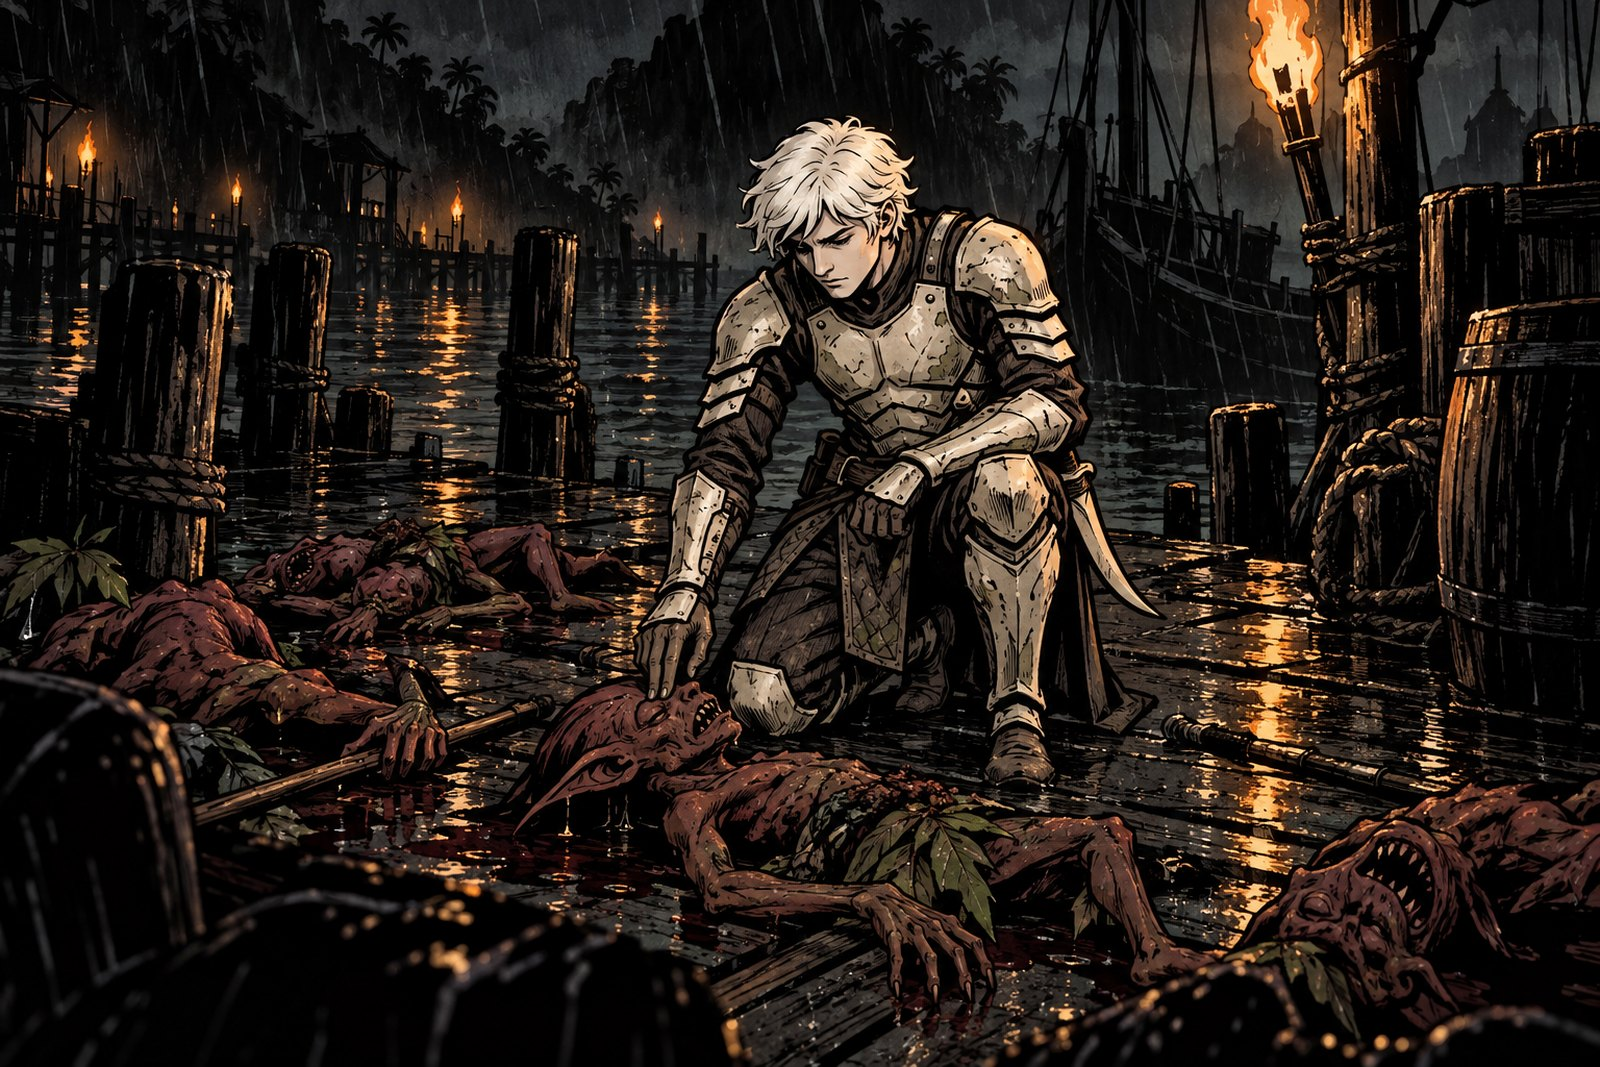
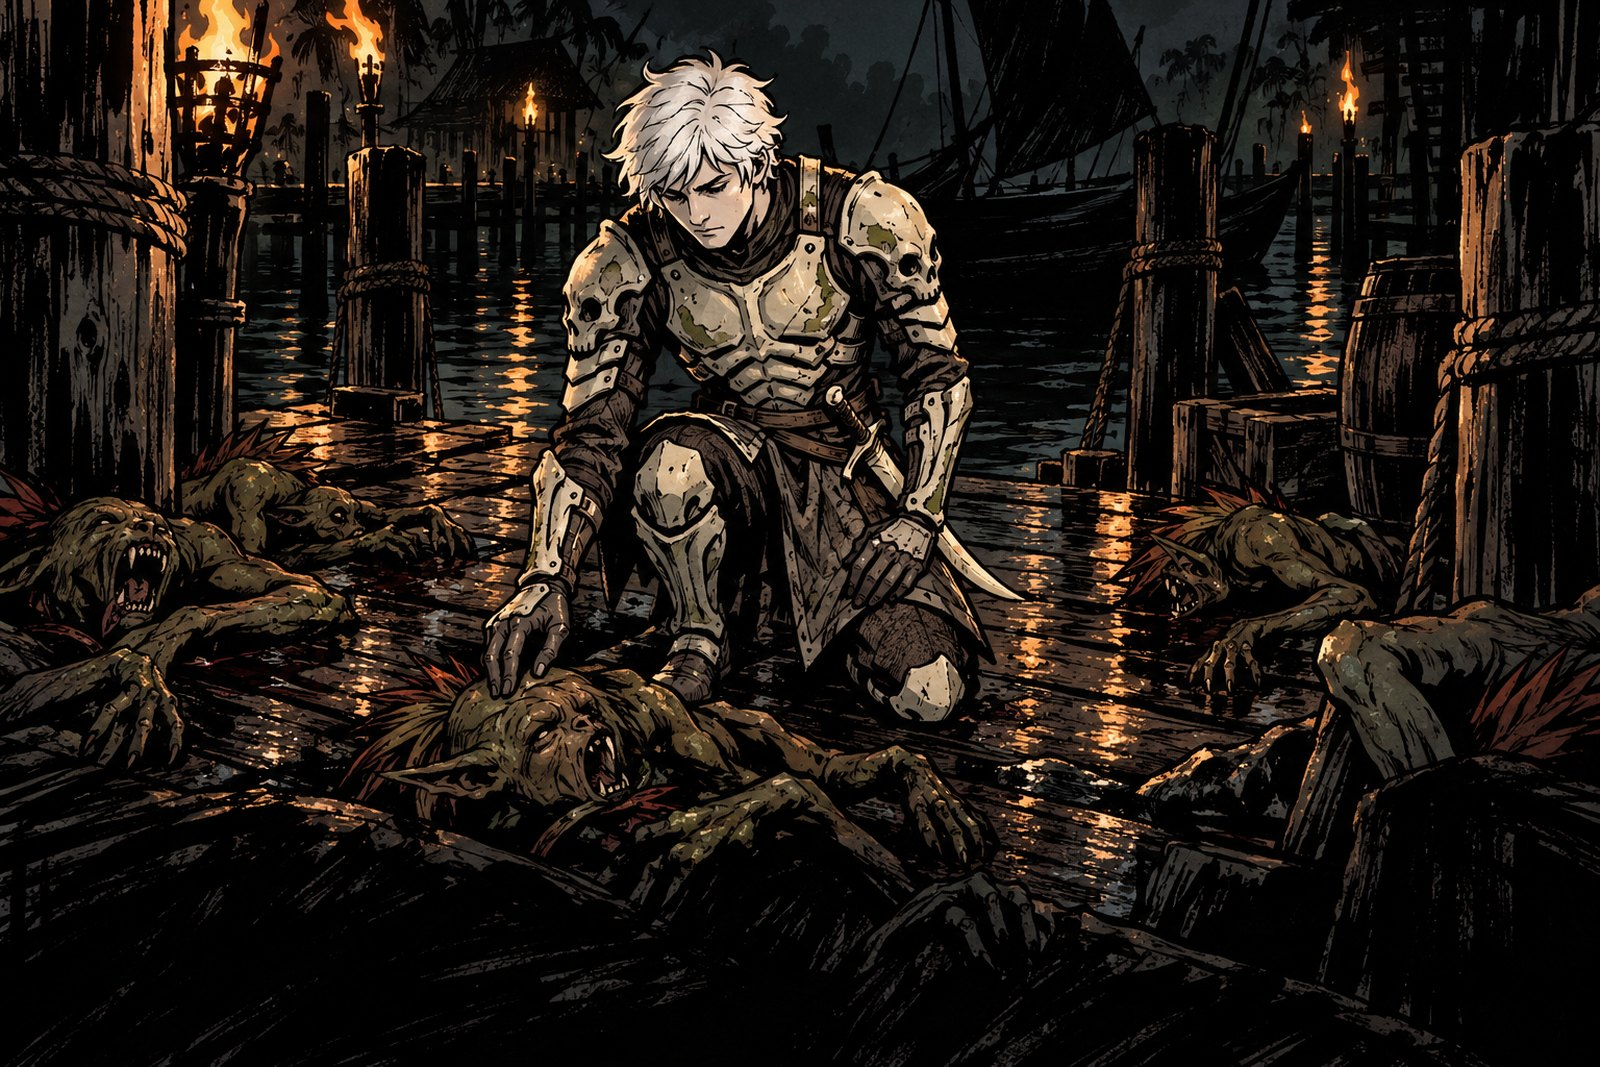
WIP story I4: frame-up, chain, seniority; bone/crown/Flayer repaints
Words: acolyte-carrier named, daughters catch + Akara witnesses, lantern
lifted, Council oil + keeper-framed, master/hound, own door, jungle
silence, died-of-stopping, inciting cause, Abominations among dead,
temple floor, black sails, six-night crossing, set of bones, let-me-look,
Tristram-kept-by-him taunt. Repaints: docks-after bone, caves-after
crowned waiter, docks-before wingless Flayers. Canon: KEEP-1 death,
MOTH-1 chain, TAUNT-1 bluff, CURSE-1 figurative beam, misquote guard.

diff --git a/hellward/story.py b/hellward/story.py
@@ -71,7 +71,8 @@ STORIES: dict[str, Story] = {s.key: s for s in (
         "tristram-before",
         "A village burning at night; small red-skinned Fallen demons pour out of cellar doors with knives and torches. "
         "In the foreground, seen from behind at the village well, the keeper holds up the lantern.",
-        "The lamp guttered at midnight, and now Tristram burns. The Fallen come up through the cellars with knives and "
+        "The lamp guttered at midnight, and now Tristram burns. Its keeper had stopped keeping it. The Fallen come up "
+        "through the cellars with knives and "
         "torches, red southern knives among them, and behind them walk the village dead, still in their Sunday clothes.",
         "Akara finds you at the well. From her candle she lights your lantern — one flame of the lamp's own. "
         "\"The old towers answer whoever keeps the lamp,\" she says. \"Wake what sleeps, and raise where nothing sleeps. "
@@ -132,8 +133,8 @@ STORIES: dict[str, Story] = {s.key: s for s in (
         "catacombs-after",
         "A bare stone cell with a cot and a cold black lamp, long unlit; on the floor, violet-glowing bones laid end to "
         "end as a long winding path, and its last stretch bare stone. No other light.",
-        "In the deepest ossuary you found his cell: a cot, a cold lamp, and his bones, laid out on the floor as a "
-        "winding path through every room you have fought in.",
+        "In the deepest ossuary you found his cell: a cot, a cold lamp, and a set of bones, laid out on the floor "
+        "as a winding path through every room you have fought in.",
         "Its last stretch was bare. It led to the door.")),
     Story("caves/before", 1, _page(
         "caves-before",
@@ -147,12 +148,13 @@ STORIES: dict[str, Story] = {s.key: s for s in (
     Story("caves/after", 1, _page(
         "caves-after",
         "Steps cut into black rock at the edge of a lava flow, each step worn into a deep hollow by feet; red light "
-        "from below.",
+        "from below; a hooded skeletal figure waits on the steps, a dull crown gleaming on his brow.",
         "At the lava's edge the rock had been cut into steps, and the steps were worn into hollows by one pair of "
         "feet.",
         "Every night for nine hundred years the keeper came down here and cast his bones before the door, and every "
-        "night they showed the lamp going out. Somewhere in those years he stopped keeping it, crowned himself, and "
-        "began to wait — as if he waited on these steps still.")),
+        "night they showed the lamp going out. Somewhere in those years he stopped keeping it, and died of it — but "
+        "the keeping would not let him go. He crowned himself, and began to wait — as if he waited on these steps "
+        "still.")),
     Story("hells_gate/before", 1, _page(
         "hells_gate-before",
         "A colossal door in the rock, firmly shut except for a single hand's-width crack; hellfire blazing through that "
@@ -160,8 +162,8 @@ STORIES: dict[str, Story] = {s.key: s for s in (
         "The door the saints built on stands open a hand's width. Through the gap you see fire, and the shape of "
         "Azazel the Flayer.",
         "The Bone Priest waits at the threshold, crowned, and turns to face you. \"Nine hundred years I kept your "
-        "saints' lamp,\" he says. \"I promised him this hour. Tonight I let it go out. I cannot lay it down — so I "
-        "will put it out.\"",
+        "saints' lamp,\" he says. \"I promised him this hour, as a master promises a hound. Tonight I let it go "
+        "out. I cannot lay it down — so I will put it out.\"",
         refs=("priest",))),
     Story("act1/end", 1, (
         Page("act1-end-1",
@@ -170,7 +172,7 @@ STORIES: dict[str, Story] = {s.key: s for s in (
              ("Azazel fell in the doorway, and the door swung shut on him — a hand's width from the night he wanted.",
               "The Bone Priest cast his bones on the threshold, again and again. They showed him every stone, every "
               "tower, every demon, as they always had. They had never once shown him you.",
-              "The nearer door shut against him; he stepped back into the dark and went east. Above you, the lamp of "
+              "His own door shut against him; he stepped back into the dark and went east. Above you, the lamp of "
              "Tristram burned."),
              ("priest",)),
         Page("act1-end-2",
@@ -183,10 +185,10 @@ STORIES: dict[str, Story] = {s.key: s for s in (
         Page("act1-end-3",
              "A night harbour; far out, a ship with black sails leaves under the moon. On the quay, seen from behind, "
              "the keeper holds up the lantern, and Akara stands beside him with her candle.",
-             ("A ship left the coast last night with one passenger and no crew, sailing east.",
+             ("A ship with black sails left the coast last night with one passenger and no crew, sailing east.",
               "\"Go,\" said Akara. \"I will keep this one. Take its flame, and the old towers will know you — Kurast is "
               "old temple ground, and the saints' works sleep there too.\" You held the lantern to the lamp until its "
-              "flame stood straight, and went down to the sea, where a boat waited."),
+              "flame stood straight, and went down to the sea, where a boat waited. The crossing took six nights."),
              ("you", "akara")),
     )),
     # -- Act II, The Drowned Temples ----------------------------------------------------------------
@@ -194,17 +196,19 @@ STORIES: dict[str, Story] = {s.key: s for s in (
         "docks-before",
         "On a harbour wall stands the necromancer, looking down at the viewer, his armour grown from the skeleton "
         "itself: a ribcage cuirass, spine-ridge pauldrons, skull motifs at shoulder and knee, matte yellowed bone, "
-        "nothing plate-like anywhere; on the far piers behind him, tiny distant red Flayers wait; a swamp city of gold "
+        "nothing plate-like anywhere; on the far piers behind him, tiny distant wingless red Flayers with knives "
+        "wait on foot; a swamp city of gold "
         "roofs and rotting wooden piers rises in tiers.",
         "Kurast rises out of the swamp in tiers of gold and rotting wood. The harbour is empty of pilgrims. Along the "
         "piers the Flayers are waiting, lordless since Azazel fell, and their shaman is already singing.",
         "A pale man in bone armour watches you land. \"I am a priest of Rathma,\" he says. \"Your enemy stole our "
         "art. Let me lend it back to you as the Bone Altar.\"",
-        "His acolytes walk with every host, carrying his words ahead of them.",
+        "The Bone Priest's acolytes walk with every host, carrying his words ahead of them.",
         refs=("necromancer",))),
     Story("docks/after", 2, _page(
         "docks-after",
-        "The necromancer kneels on a wet pier among small dead jungle fiends, closing their eyes with two fingers.",
+        "The necromancer kneels on a wet pier among small dead jungle fiends, closing their eyes with two fingers, "
+        "wearing ribcage bone armour with skull motifs, matte yellowed bone, nothing plate-like.",
         "The shaman's song stopped. The necromancer knelt among the Flayers and closed their eyes. \"Twice his shaman "
         "raised them on the priest's stolen art,\" he said. \"Each time, fewer of them came back.",
         "\"He is not raising the dead. He is spending them.\"",
@@ -242,7 +246,7 @@ STORIES: dict[str, Story] = {s.key: s for s in (
         "A gloved hand holds a folded letter; its wax seal, stamped with the cathedral's seal, is broken.",
         "Among the inquisitors' dead you found the seal of the High Council, and a letter in the Bone Priest's hand: "
         "Your lamp gutters, as mine did. Let me keep it for you.",
-        "The Council let him in.",
+        "The Council let him in, and gave him oil for the keeping.",
         "The lamp had been low for years. No one in Kurast had truly kept it.",
         refs=("seal",))),
     Story("drowned_city/before", 2, _page(
@@ -269,8 +273,8 @@ STORIES: dict[str, Story] = {s.key: s for s in (
         "ember line still burning inside. No candles, no other light.",
         "The High Council meets on the temple terrace under the mother lamp: a row of elders in gold, and every one of "
         "them curses. They let him in with open eyes.",
-        "They have waited for you. The Bone Priest has told them how this night ends. He promised Azazel an hour, "
-        "and Azazel is dust in a shut door. His promises are spent coin.",
+        "They have waited for you. The Bone Priest has told them you come to put the lamp out. He promised Azazel "
+        "an hour, and Azazel is dust in a shut door.",
         "The Council gave him the keeping of the lamp. But the old towers answer the flame, and his hands are empty.",
         refs=("mother_lamp",))),
     Story("travincal/after", 2, _page(
@@ -288,18 +292,17 @@ STORIES: dict[str, Story] = {s.key: s for s in (
         "A vast golden temple interior gone almost dark; the mother lamp hangs over the altar with its flame sunk to a "
         "last red ember, the great glass nearly black; beneath it the Bone Priest, grown huge, bones in his open hand, "
         "violet fire around him. No candles, no other light.",
-        "Under the mother lamp the Bone Priest waits, his new Abominations at the stair, and for the first time he "
+        "Under the mother lamp the Bone Priest waits, his new Abominations among the dead, and for the first time he "
         "will fight you himself.",
         "\"Every night since Tristram I have cast these bones,\" he says. \"They show me every stone of this "
-        "temple, every demon in it, every tower you will build. They have never shown me you. So I have come to "
-        "look.\"",
+        "temple, every demon in it, every tower you will build. They have never shown me you. So let me look.\"",
         refs=("priest", "mother_lamp"))),
     Story("act2/end", 2, (
         Page("act2-end-1",
-             "Violet bones scattered across a gold floor; above them a ghostly vision in gold light: a shadow with a "
+             "Violet bones scattered across a grey stone floor; above them a ghostly vision in gold light: a shadow "
              "lantern standing beside a burning lamp.",
-             ("The bones fell from his hand and scattered across the gold floor, and above them, for the first time, "
-              "the vision held you: a shadow with a lantern, and the lamp still burning.",
+             ("The bones fell from his hand and scattered across the temple floor. You lifted the lantern — and above "
+              "them, for the first time, the vision held you: a shadow with a lantern, its flame still burning.",
               "\"There you are,\" he said, and was dust — nine hundred years, all at once."),
              ("you",), base="bones"),
         Page("act2-end-2",
@@ -314,14 +317,14 @@ STORIES: dict[str, Story] = {s.key: s for s in (
              "the mother flame catches and rises gold, lighting the whole temple.",
              ("You held it up to the great lamp: Tristram's flame, lit from this one nine hundred years ago. The eldest "
               "druid poured oil from his wooden cask, pressed from the grove's oaks, and the mother flame caught, and "
-              "rose gold.",),
+              "rose gold — and far away, every daughter lamp caught with her.",),
              ("you", "druid", "mother_lamp")),
         Page("act2-end-4",
              "Dawn through tall cathedral windows; the red lamp of Tristram burns straight; Akara looks up at it from "
              "below with her candle.",
-             ("Across the sea, in a cathedral built on a door to hell, Akara's candle had burned through the dark on "
-              "keeping alone.",
-              "From it she lit the small red lamp again, and it stood straight.",
+             ("Across the sea, in a cathedral built on a door to hell, the small red flame caught with its mother, "
+              "and stood straight.",
+              "Beside it, Akara's candle burned on — it had burned through the dark on keeping alone.",
               "Keep it burning."),
              ("akara", "lamp")),
     )),

diff --git a/docs/story-canon.md b/docs/story-canon.md
@@ -25,15 +25,17 @@ keeper's keeping. A flame given into keeping burns on keeping from that hour —
 oil cannot starve it afterwards. That is why it survives the mother lamp's
 going out, when every oil flame lit from her dies. [LANT-2]
 
-**The chain.** When the mother lamp goes out, every daughter dies with her.
-Akara's candle burns through the dark on keeping alone, and from it she
-lights Tristram's lamp again once the mother burns. [MOTH-1]
+**The chain.** When the mother lamp goes out, every daughter dies with her;
+when she burns again, every daughter catches with her. Akara's candle burns
+through the dark on keeping alone, and beside it she watches Tristram's lamp
+catch. [MOTH-1]
 
 **The keeping.** The keeping passes from keeper to keeper, night by night;
 tonight it is yours. Akara can mind a lamp, but the old towers answer only the
-keeper. [KEEPER-2] And the keeping holds its keeper past death: that is how one
-priest kept Tristram's lamp nine hundred years, and why he walks still, a
-skeleton who cannot lay the office down. [KEEP-1]
+keeper. [KEEPER-2] The keeping holds its keeper past death: it held him long
+while he lived — nine hundred years alive — and when he stopped keeping, he
+died of it, but the keeping would not let him go. That is why he walks still,
+a skeleton who cannot lay the office down. [KEEP-1]
 
 **What each defence defends.** Every map ends at a sanctuary chapel, and the
 keeper sets the lantern down burning in it while working. The red orb is that
@@ -99,7 +101,11 @@ keeper no longer, but king of what comes through. [CROWN-1]
 
 **His voice.** His taunts run ahead of every host, carried by his acolytes on
 the eve of battle; the briefings stage them as his voice. That is how he
-taunts fights he does not attend. [TAUNT-1]
+taunts fights he does not attend. His taunts menace and sometimes bluff;
+pages and lessons teach the truth. [TAUNT-1] The prologue's beam is his will
+shown plainly, in the visions' figurative register; in battle the curses fall
+through his acolytes and leaders — he fights in person first, and only, at
+the temple. [CURSE-1]
 
 **The flame answers.** The towers answer the flame-bearer. The Council may
 give him the keeping of the lamp, but his hands are empty, and the old towers
@@ -255,9 +261,10 @@ text — verify on a full walk with panels open.)*
 
 ## Open questions
 
-Iteration 1 closed 1–7 (applied + committed 05cb5af; re-check verified the
-core lands). What follows is iteration 2, from the re-check reports (R1 = the
-rule the telling must still earn, with its canon tag).
+Iterations 1–2 applied and committed (05cb5af, bfa22ba); iteration 3 applied
+and committed (2bbd9da). Iteration 4 (below) answers the I3 critic's verified
+findings; its two misquotes ("spending an army", the jungle tooltip) matched
+already-fixed text and are marked [STALE] where they would have appeared.
 
 1. LANT-2 bridge: the lantern is lit as oil-flame but burns oil-less. Needs
    the transition stated (Akara: keeping feeds it from that hour). [R1/LANT-2]
@@ -296,10 +303,25 @@ rule the telling must still earn, with its canon tag).
 17. **Accepted, no telling change:** keeper's origin blank (deliberate,
     KEEPER-1); "my lamp" first-read (resolves at hells_gate); elders veil
     (ELDER-1); boat off-frame (moored hulls at act1-end-3's right edge);
-    Azazel's body behind the shut door; gargoyles "hang"→"roost" (trivial,
-    batched); necromancer's thin past (his payoff is the bones' rule);
-    prologue skeletons (both sides raise dead); Blood Bat's small model.
-18. **CLOSED by this canon:** orb fiction (ORB-1/LANT-1), wake-vs-build
+    Azazel's body behind the shut door; necromancer's thin past (his payoff
+    is the bones' rule); prologue skeletons (both sides raise dead); Blood
+    Bat's small model; travincal bargain as dramatic irony (the new taunt is
+    non-empty; the old hollowness is gone); oil timing as race structure (you
+    arrive as it runs out); Council zealotry needs no motive beyond faith;
+    uniform objectives (genre; per-fight objectives would be a game change);
+    lessons teach mechanics by design (drowned briefing); Abominations
+    off-panel at the stair (words may exceed the panel).
+18. **Iteration 4 (applied, uncommitted):** docks-after bone repaint;
+    caves-after crowned waiter; docks-before wingless Flayers; KEEP-1
+    (died of stopping, keeping holds him); MOTH-1 (daughters catch with
+    mother, Akara witnesses); TAUNT-1 bluff clause; CURSE-1 (prologue beam
+    figurative); taunt-carrier named; daughters catch + Akara witnesses;
+    lantern lifted (the light's choice); Council oil + frame-up; master/hound
+    seniority; own door; jungle taunt silence-fix; died-of-stopping;
+    inciting cause; Abominations among the dead; temple floor; black sails;
+    crossing nights; a set of bones; "let me look"; Tristram kept by him
+    (travincal taunt).
+19. **CLOSED by this canon:** orb fiction (ORB-1/LANT-1), wake-vs-build
     (TOWER-1/TOWER-2), priest's motive (PRIEST-1), why the bones never show
     the keeper (BONES-1), the lantern's survival (LANT-2), the chain
     (MOTH-1), his release (REL-1), his voice (TAUNT-1), the flame answers
@@ -349,5 +371,6 @@ rule the telling must still earn, with its canon tag).
    holes, extended impressions, new ledger entries).
 6. **Blind-check**: a subagent walks the touched arc with panels only (it must
    not open this canon, `docs/story.md`, or any source file) and reports what
-   it understood. Its report goes into the iteration notes; misses become new
-   Open questions.
+   it understood. Verify every quote in its report against the files before
+   acting — blind agents can misquote from false memory. Its report goes into
+   the iteration notes; verified misses become new Open questions.

diff --git a/docs/story.md b/docs/story.md
@@ -62,7 +62,7 @@ gauge. `stills` re-renders the stills into `hellward/assets/story/` after visual
 | Hell's Gate | In every night I have seen, the lamp goes out. I have begun to wonder what I have not seen. |
 | Kurast Docks | You crossed a sea for a lamp that is not yours. My shaman will raise every Flayer you leave whole. |
 | The Spider Forest | The old trees have taken your side. Stand close to them, then. One curse will find you all. |
-| The Flayer Jungle | My inquisitors do not chant. You will know their curse when the ground burns under your towers, and not before. |
+| The Flayer Jungle | My inquisitors do not chant. You will know their curse when the ground burns under your towers, and no chant before it. |
 | The Drowned City | The Hulks were drowned men once. They do not tire, and your gates are cloth to them. |
-| Travincal | Turn back, and I will leave Tristram's lamp alone. It is a small lamp. No one would miss it. |
+| Travincal | Turn back, and when the mother dies I will keep Tristram's little lamp myself. No one would miss it. |
 | The Temple of Light | I have done with bones. Come, keeper. Let me look at you myself, while the temple still stands. |
